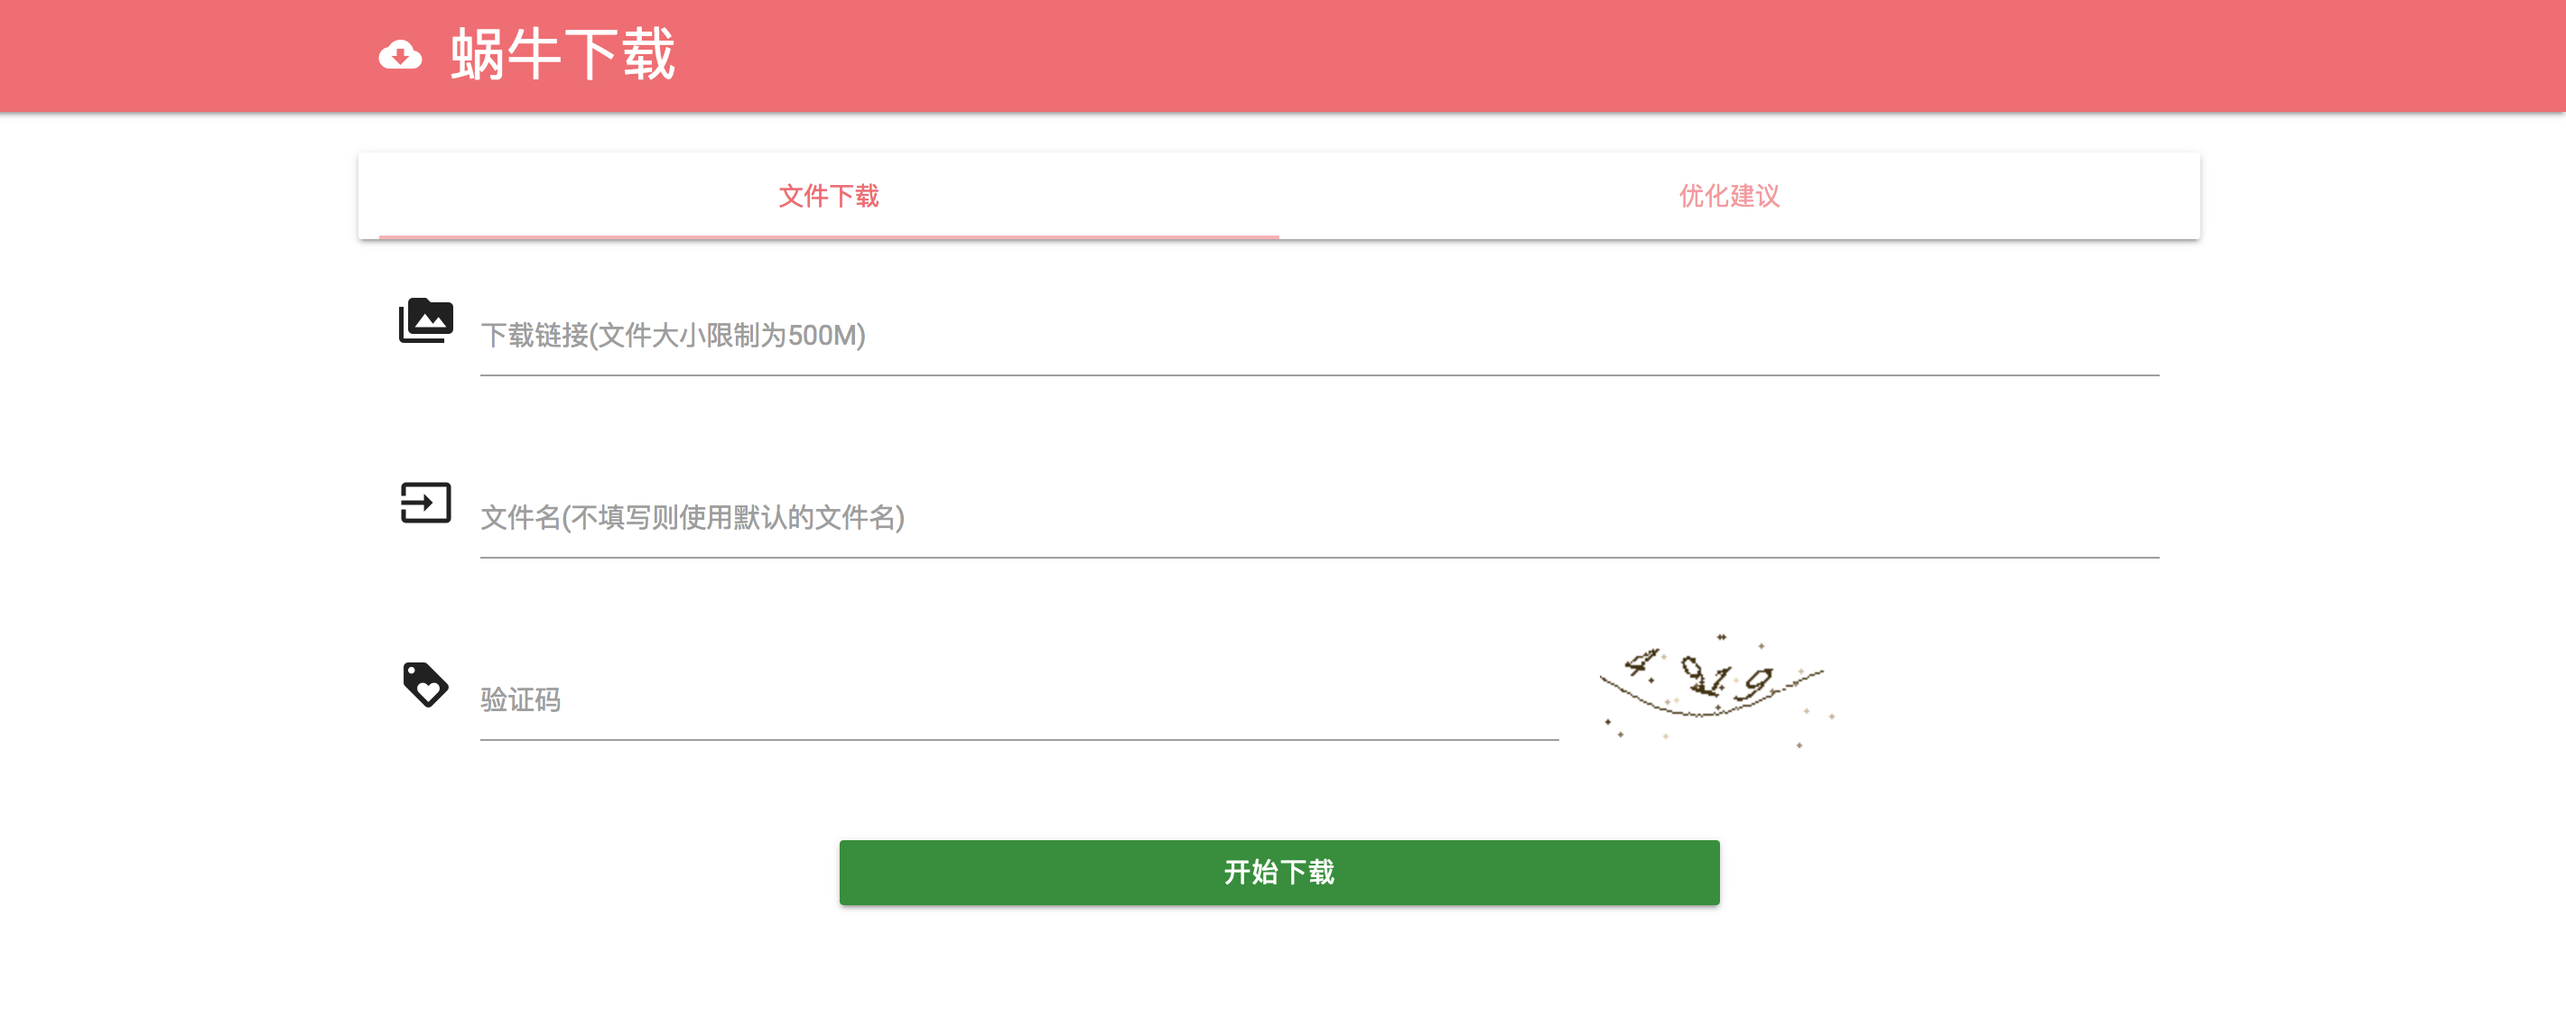
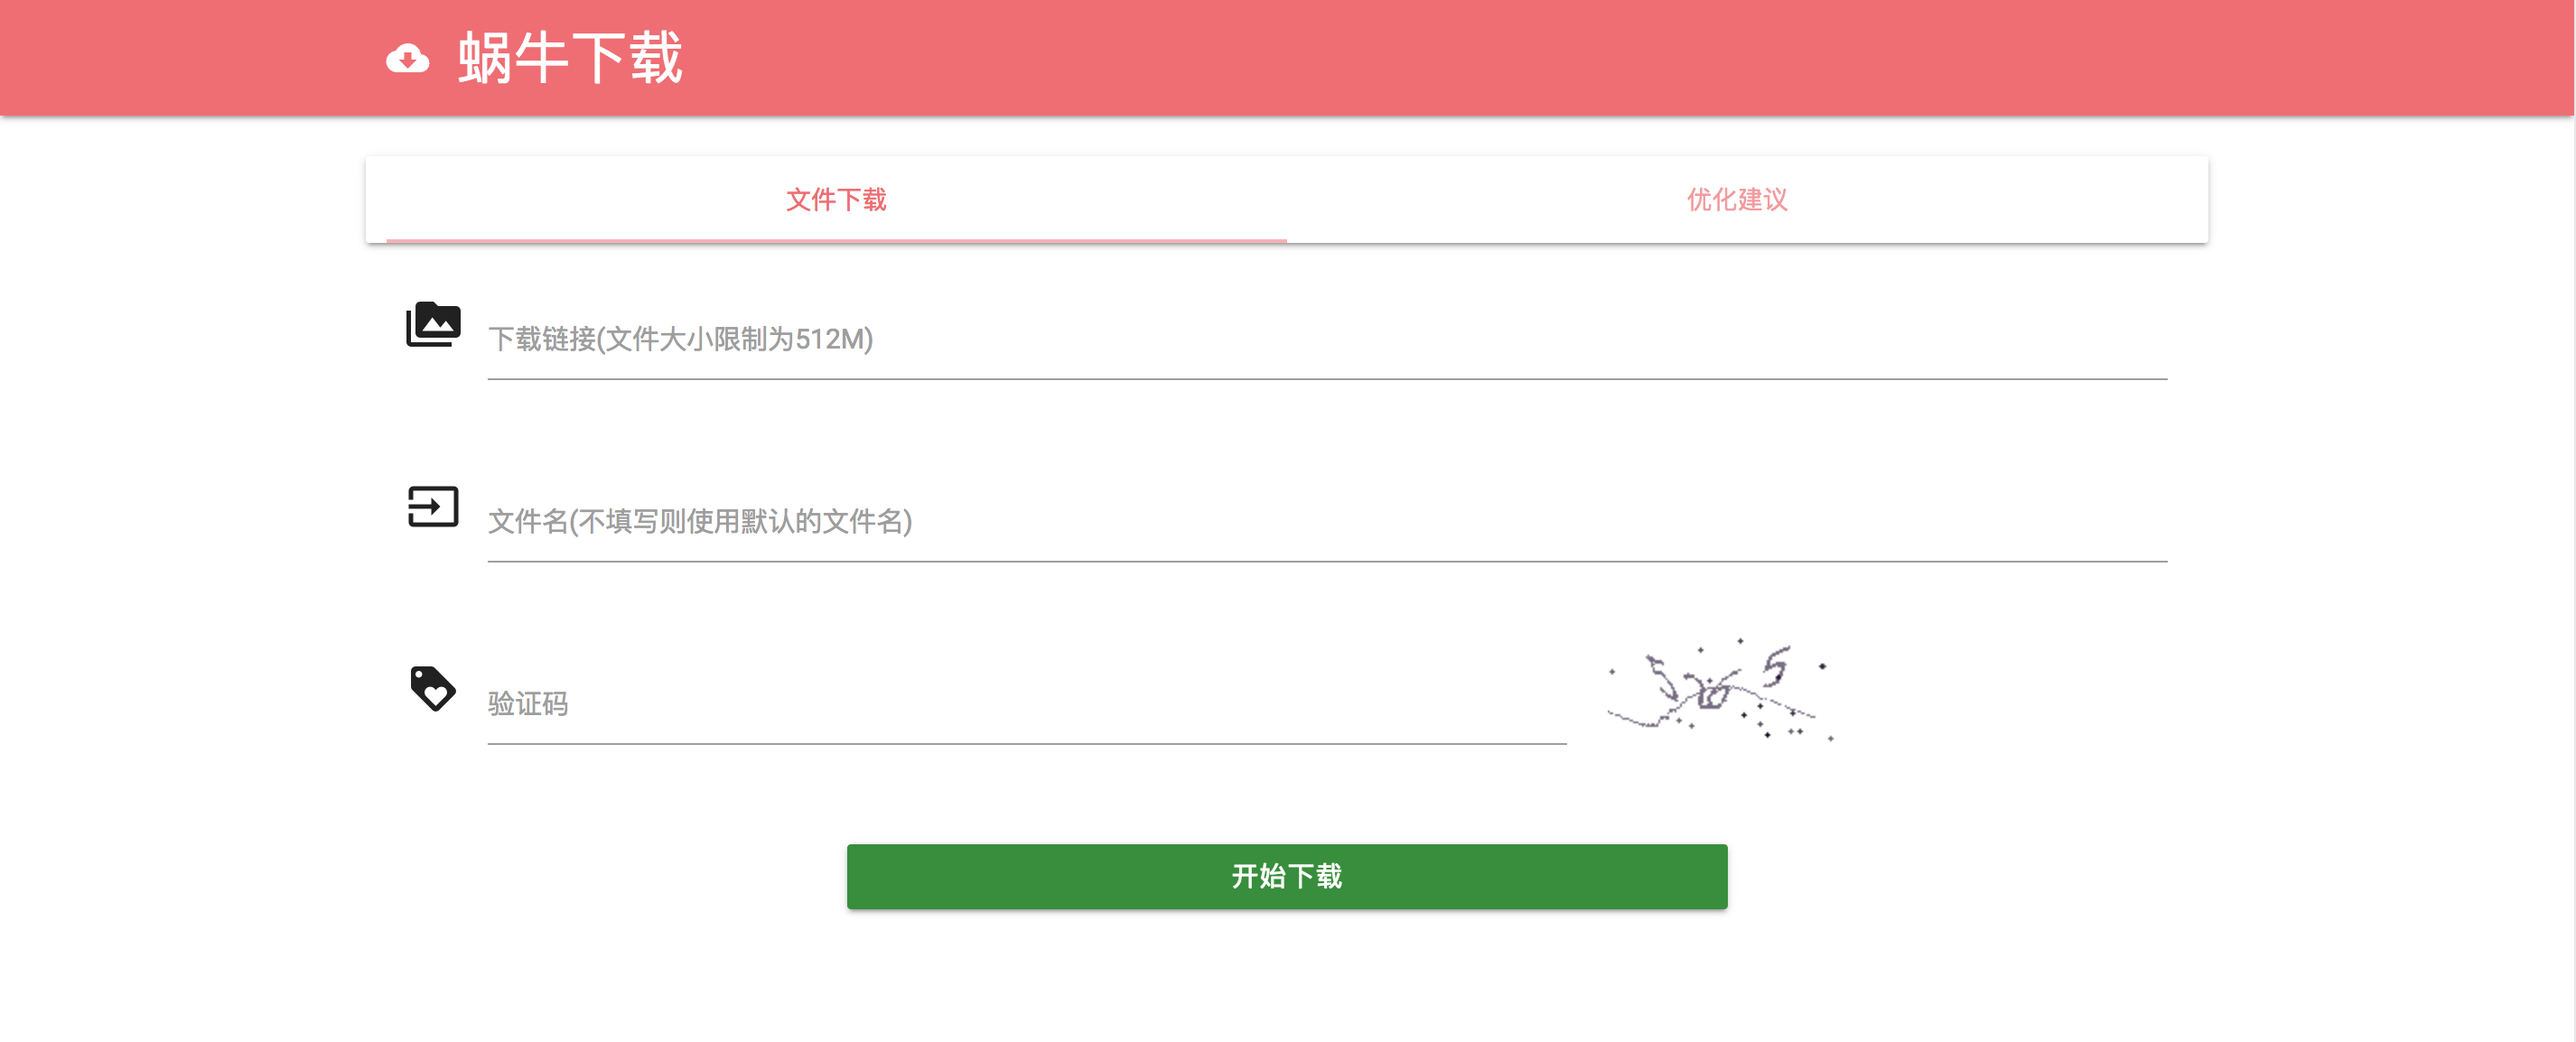
优化验证码展现问题

diff --git a/views/suggest.html b/views/suggest.html
@@ -8,7 +8,7 @@
     </div>
     <div class="row">
         <div class="col m12 center">
-            <button class="btn waves-effect yellow darken-4" type="button" onclick="return location.href='/';">回首页</button>
+            <button class="btn waves-effect yellow darken-4" type="button" onclick="return history.back();">返回</button>
         </div>
     </div>
 </div>

diff --git a/views/error/400.html b/views/error/400.html
@@ -9,7 +9,7 @@
     </div>
     <div class="row">
         <div class="col m12 center">
-            <button class="btn waves-effect yellow darken-4" type="button" onclick="return location.href='/';">返回</button>
+            <button class="btn waves-effect yellow darken-4" type="button" onclick="return history.back();">返回</button>
         </div>
     </div>
 </div>

diff --git a/views/error/404.html b/views/error/404.html
@@ -9,7 +9,7 @@
     </div>
     <div class="row">
         <div class="col m12 center">
-            <button class="btn waves-effect yellow darken-4" type="button" onclick="return location.href='/';">返回</button>
+            <button class="btn waves-effect yellow darken-4" type="button" onclick="return history.back();">返回</button>
         </div>
     </div>
 </div>

diff --git a/views/error/500.html b/views/error/500.html
@@ -9,7 +9,7 @@
     </div>
     <div class="row">
         <div class="col m12 center">
-            <button class="btn waves-effect yellow darken-4" type="button" onclick="return location.href='/';">返回</button>
+            <button class="btn waves-effect yellow darken-4" type="button" onclick="return history.back();">返回</button>
         </div>
     </div>
 </div>

diff --git a/utils/captcha/captcha.go b/utils/captcha/captcha.go
@@ -1,0 +1,61 @@
+package captcha
+
+import (
+	"bytes"
+	"io"
+	"time"
+
+	"github.com/dchest/captcha"
+)
+
+var (
+	globalStore = captcha.NewMemoryStore(50, time.Minute*5)
+	defaultLen  = 4
+)
+
+func init() {
+	captcha.SetCustomStore(globalStore)
+}
+
+// New 创建新的验证码
+func New() string {
+	return captcha.NewLen(defaultLen)
+}
+
+// Reload 重新加载验证码
+func Reload(id string) bool {
+	return captcha.Reload(id)
+}
+
+// WriteImage 图片验证码
+func WriteImage(w io.Writer, id string, width, height int) error {
+	return captcha.WriteImage(w, id, width, height)
+}
+
+// VerifyString 验证码验证
+func VerifyString(id string, digits string) bool {
+	if digits == "" {
+		return false
+	}
+	ns := make([]byte, len(digits))
+	for i := range ns {
+		d := digits[i]
+		switch {
+		case '0' <= d && d <= '9':
+			ns[i] = d - '0'
+		case d == ' ' || d == ',':
+			// ignore
+		default:
+			return false
+		}
+	}
+	if len(ns) == 0 {
+		return false
+	}
+
+	reald := globalStore.Get(id, false)
+	if reald == nil {
+		return false
+	}
+	return bytes.Equal(ns, reald)
+}

diff --git a/controllers/default.go b/controllers/default.go
@@ -1,8 +1,8 @@
 package controllers
 
 import (
+	"github.com/LyricTian/snail/utils/captcha"
 	"github.com/astaxie/beego"
-	"github.com/dchest/captcha"
 )
 
 // MainController 入口控制器
@@ -13,7 +13,7 @@ type MainController struct {
 // Get /
 // @router / [get]
 func (mc *MainController) Get() {
-	mc.Data["CaptchaID"] = captcha.NewLen(4)
+	mc.Data["CaptchaID"] = captcha.New()
 	mc.LayoutSections = map[string]string{
 		"Scripts": "scripts/index.html",
 	}

diff --git a/controllers/download.go b/controllers/download.go
@@ -13,8 +13,8 @@ import (
 	"time"
 
 	"github.com/LyricTian/snail/models"
+	"github.com/LyricTian/snail/utils/captcha"
 	"github.com/astaxie/beego"
-	"github.com/dchest/captcha"
 	"github.com/satori/go.uuid"
 	"golang.org/x/net/http2"
 )

diff --git a/controllers/suggest.go b/controllers/suggest.go
@@ -6,8 +6,8 @@ import (
 	"time"
 
 	"github.com/LyricTian/snail/models"
+	"github.com/LyricTian/snail/utils/captcha"
 	"github.com/astaxie/beego"
-	"github.com/dchest/captcha"
 	"github.com/satori/go.uuid"
 )
 
